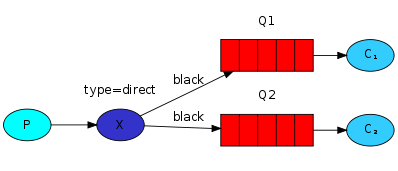
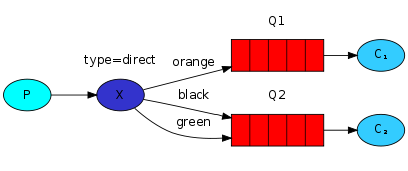
update readme

diff --git a/rabbitmq/src/main/java/fr/couture/rabbitmq/ex4Routing/RoutingConfig.java b/rabbitmq/src/main/java/fr/couture/rabbitmq/ex4Routing/RoutingConfig.java
@@ -43,14 +43,6 @@ public class RoutingConfig {
         }
 
         @Bean
-        public Binding binding1b(DirectExchange direct,
-                                 Queue autoDeleteQueue1) {
-            return BindingBuilder.bind(autoDeleteQueue1)
-                    .to(direct)
-                    .with("black");
-        }
-
-        @Bean
         public Binding binding2a(DirectExchange direct,
                                  Queue autoDeleteQueue2) {
             return BindingBuilder.bind(autoDeleteQueue2)

diff --git a/README.md b/README.md
@@ -1,47 +1,77 @@
+# Présentation des différentes possibilitées de RabbitMQ
+
 ## 01 Hello world
-![Hello world](./img/01-Hello.png)
-```
+![Hello world](./img/01-Hello.png)  
+Ici nous avons le Producer (P) qui insère un message dans la queues qui est ensuite récupérer par le Consumer (C)
+
+Ceci peut être patique quand nous attendons pas de retour du consumer et par exemple si le consumer est occupé ou indisponible le message reste dans la queue et sera lue quand le consumer pourra le lire.
+
+```sh
+# A exécuter dans un premier terminal
 java -jar ./target/rabbitmq-1.0.jar --spring.profiles.active=hello-world,receiver
 
+# A exécuter dans un second terminal
 java -jar ./target/rabbitmq-1.0.jar --spring.profiles.active=hello-world,sender
 ```
 
 ## 02 Work Queues
-![Work Queues](./img/02-WorkQueues.png)
-```
+![Work Queues](./img/02-WorkQueues.png)  
+Ici nous avons la même chose que le premier mais nous allons montrer l'efficacité de RabbitMq.
+Si le C1 est occupé mais le C2 ne l'est pas le C2 traitera les messages jusqu'à temps que C1 puisse reprendre le traitement des messages.  
+Un cas simple pour exemple si un consumer peut lire un message toutes les 10 secondes dû au traitement de celui-ci avec les 2 consumers nous pourrons en lire 2 en 10 secondes .
+```sh
+# A exécuter dans un premier terminal
 java -jar ./target/rabbitmq-1.0.jar --spring.profiles.active=work-queues,receiver
 
+# A exécuter dans deux autres terminaux
 java -jar ./target/rabbitmq-1.0.jar --spring.profiles.active=work-queues,sender
 ```
 
 ## 03 Publish/Subscribe
-![Publish/Subscribe](./img/03-Publish-Subscribe.png)
-```
+![Publish/Subscribe](./img/03-Publish-Subscribe.png)  
+Par rapport aux deux premiers exemples nous avons un exchange (X). Sur cet exchange nous avons deux queues qui se sont abonnées à celui-ci. Alors quand le producer va envoyer un message celui-ci sera transféré à l'exchange qui va l'insérer dans les deux queues et ainsi ce message sera lu par les deux consumers.
+```sh
+# A exécuter dans un premier terminal
 java -jar ./target/rabbitmq-1.0.jar --spring.profiles.active=publish-subscribe,receiver
 
+# A exécuter dans un second terminal
 java -jar ./target/rabbitmq-1.0.jar --spring.profiles.active=publish-subscribe,sender
 ```
 
 ## 04 Routing
-![Routing](./img/04-Routing.png)
-```
+![Routing](./img/04-Routing.png)  
+Ici même principe que l'exemple 3 sauf qu'ici nous ajoutons un clé de routing. Donc si le producer envoi "orange" celui-ci sera lu uniquement par C1 et si le message est "back" ou "green" il sera lu uniquement par C2.
+```sh
+# A exécuter dans un premier terminal
 java -jar ./target/rabbitmq-1.0.jar --spring.profiles.active=routing,receiver
 
+# A exécuter dans un second terminal
 java -jar ./target/rabbitmq-1.0.jar --spring.profiles.active=routing,sender
 ```
 
 ## 05 Topics
-![Topics](./img/05-Topics.png)
-```
+![Topics](./img/05-Topics.png)  
+Ici même principe que l'exemple 4 sauf qu'il est plus permisif.
+Dans l'image nous voyons :  
+- *.orange.* => ceci veut dire qu'il redirige les messages vers C1 quand orange à un mot devant et un mot derrière, comme toto.orange.titi
+- *.*.rabbit => ceci veut dire qu'il redirige les messages vers C2 quand rabbit à deux mots devant , comme toto.titi.rabbit
+- lazy.# => ceci veut dire qu'il redirige les messages vers C2 quand lazy à zéro ou plusieurs mots derrière , comme lazy ou lazy.toto ou lazy.toto.titi
+```sh
+# A exécuter dans un premier terminal
 java -jar ./target/rabbitmq-1.0.jar --spring.profiles.active=topics,receiver
 
+# A exécuter dans un second terminal
 java -jar ./target/rabbitmq-1.0.jar --spring.profiles.active=topics,sender
 ```
 
 ## 06 RPC
-![RPC](./img/06-RPC.png)
-```
+![RPC](./img/06-RPC.png)  
+Ici nous avons le consumer (C) et le serveur (S), le consumer envoi un message au serveur est attend une réponse de celui-ci.
+Exemple le consumer peut envoyer un chiffre et le serveur lui renvoit le résultat de la suite de fibonacci à cette occurence.
+```sh
+# A exécuter dans un premier terminal
 java -jar ./target/rabbitmq-1.0.jar --spring.profiles.active=rpc,server
 
+# A exécuter dans un second terminal
 java -jar ./target/rabbitmq-1.0.jar --spring.profiles.active=rpc,client
 ```
